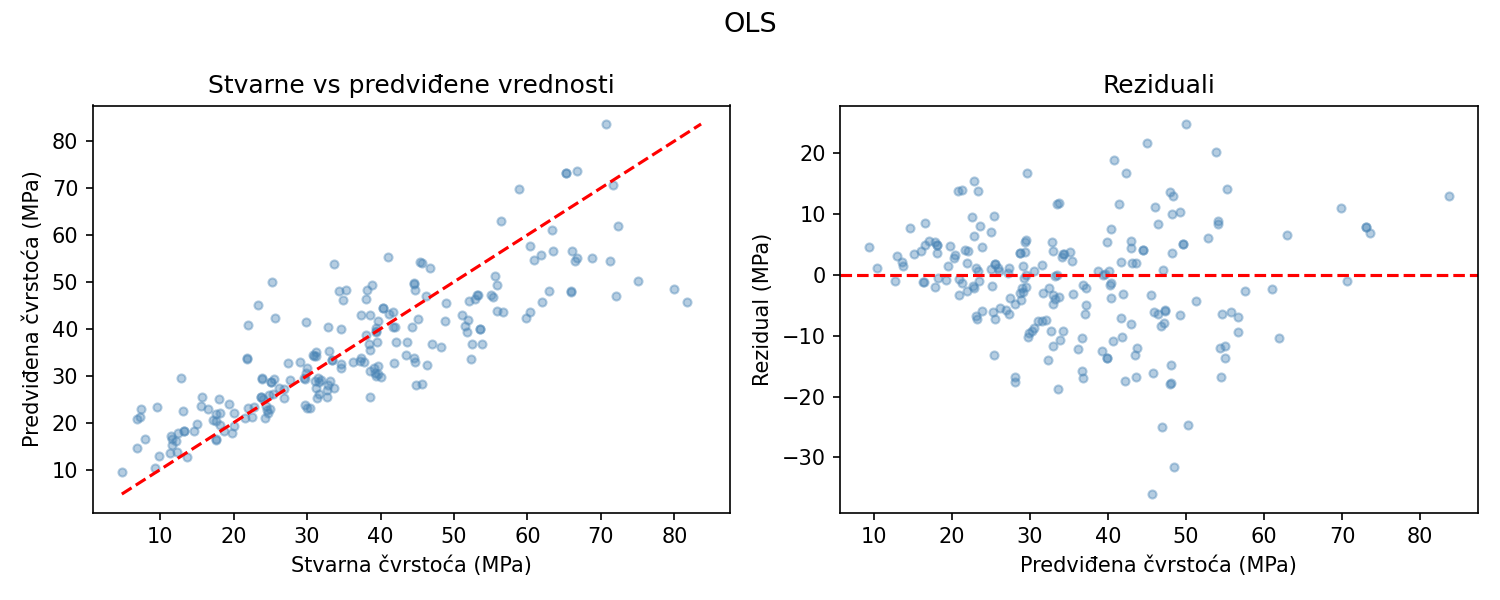
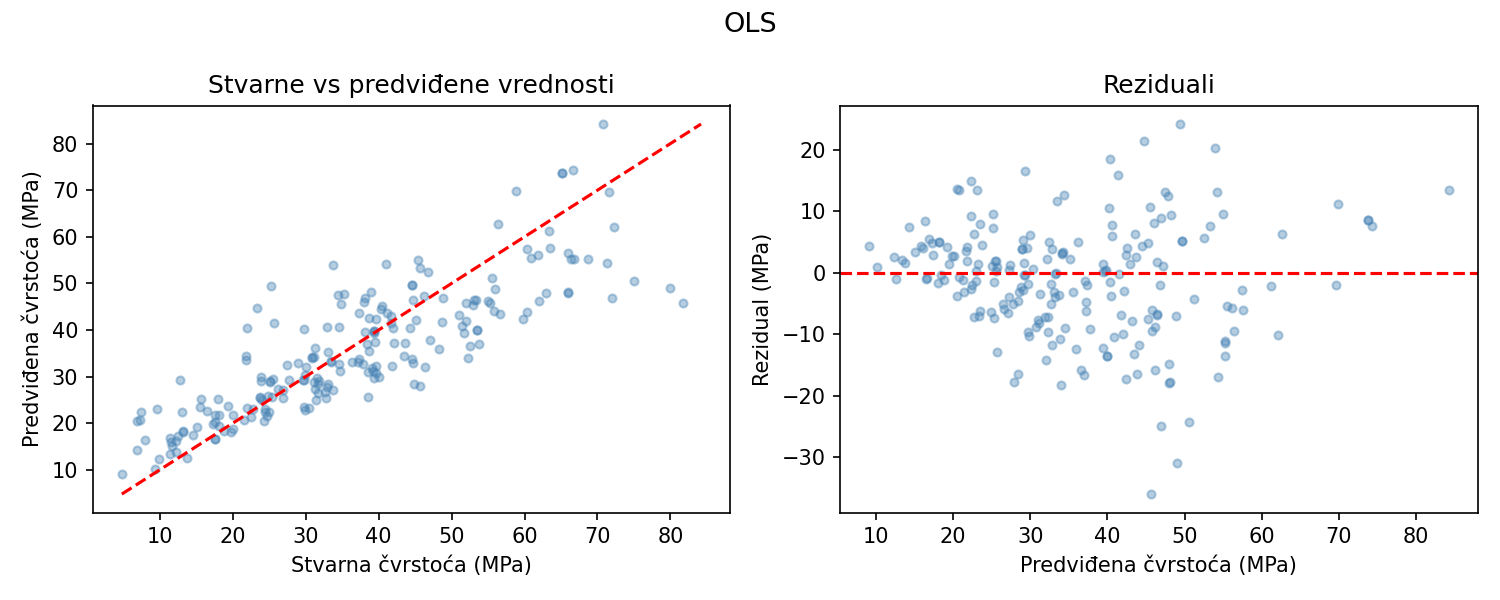
Fix data leakage in outlier capping
Capping granice se sada računaju isključivo na train setu i primenjuju na val/test, umesto da se računaju nad celim datasetom pre split-a, tune_xgb() argumenti ispravljeni.

diff --git a/src/preprocessing.py b/src/preprocessing.py
@@ -30,16 +30,19 @@ def add_features(df):
     return df
 
 
-def cap_outliers(df):
+def cap_outliers(df, bounds=None):
     df = df.copy()
+    if bounds is None:
+        bounds = {}
+        for col in FEATURE_COLS:
+            Q1 = df[col].quantile(0.25)
+            Q3 = df[col].quantile(0.75)
+            IQR = Q3 - Q1
+            bounds[col] = (Q1 - 1.5 * IQR, Q3 + 1.5 * IQR)
     for col in FEATURE_COLS:
-        Q1 = df[col].quantile(0.25)
-        Q3 = df[col].quantile(0.75)
-        IQR = Q3 - Q1
-        lower = Q1 - 1.5 * IQR
-        upper = Q3 + 1.5 * IQR
+        lower, upper = bounds[col]
         df[col] = df[col].clip(lower=lower, upper=upper)
-    return df
+    return df, bounds
 
 
 def split_data(df, random_state=42):
@@ -59,6 +62,9 @@ def split_data(df, random_state=42):
 def load_and_prepare(cap=True):
     df = load_data()
     df = add_features(df)
+    x_train, x_val, x_test, y_train, y_val, y_test = split_data(df)
     if cap:
-        df = cap_outliers(df)
-    return split_data(df)
+        x_train, bounds = cap_outliers(x_train)
+        x_val, _ = cap_outliers(x_val, bounds)
+        x_test, _ = cap_outliers(x_test, bounds)
+    return x_train, x_val, x_test, y_train, y_val, y_test

diff --git a/src/evaluation.py b/src/evaluation.py
@@ -50,7 +50,7 @@ if __name__ == "__main__":
 
     df = load_data()
     df = add_features(df)
-    df = cap_outliers(df)
+    df, _ = cap_outliers(df)
     print("OLS Summary — ceo dataset (statsmodels):")
     ols_summary(df[MODEL_FEATURE_COLS], df[TARGET_COL])
 
@@ -63,7 +63,7 @@ if __name__ == "__main__":
     rf = tune_rf(x_train_r, y_train_r)
 
     print("Tuning XGBoost...")
-    xgb = tune_xgb(x_train_r, y_train_r, x_val_r, y_val_r)
+    xgb = tune_xgb(x_train_r, y_train_r)
 
     results = {
         "OLS": evaluate_model(ols, x_train, x_val, x_test, y_train, y_val, y_test),

diff --git a/src/visualization.py b/src/visualization.py
@@ -250,5 +250,5 @@ if __name__ == "__main__":
     plot_age_vs_strength(df)
     plot_correlation_heatmap(df)
     plot_boxplots(df)
-    df_capped = cap_outliers(df)
+    df_capped, _ = cap_outliers(df)
     plot_boxplots_after(df_capped)
